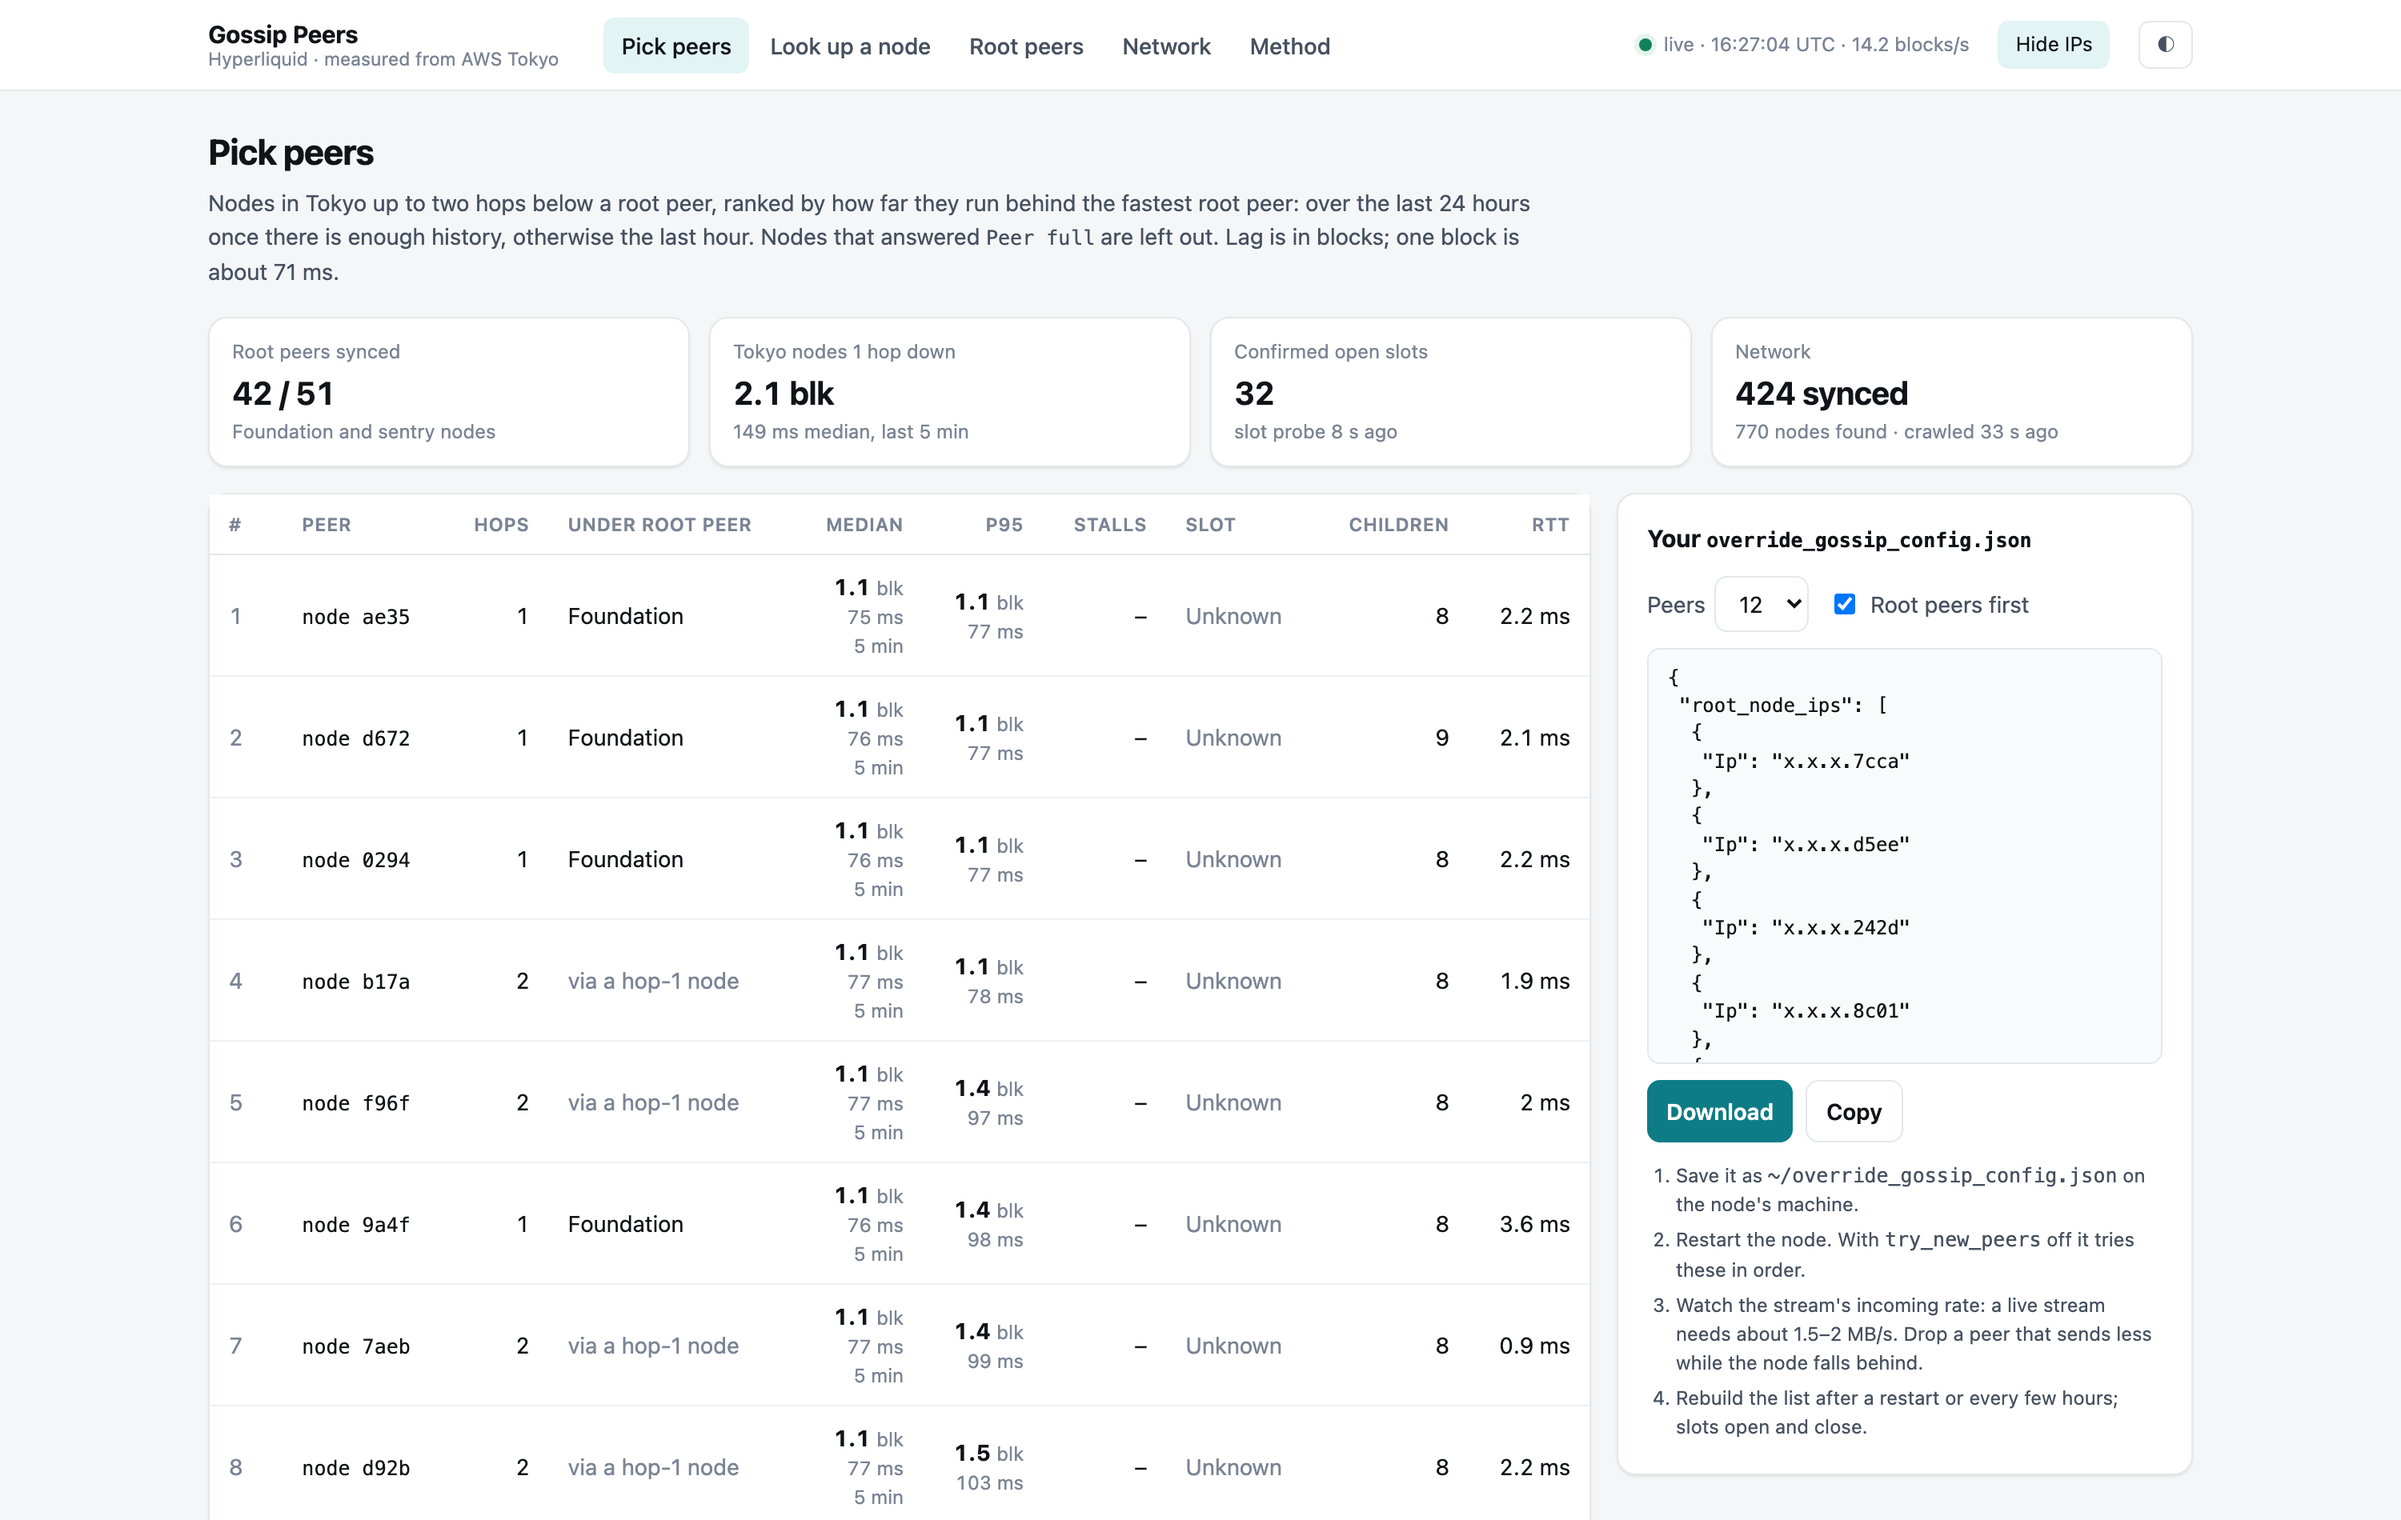
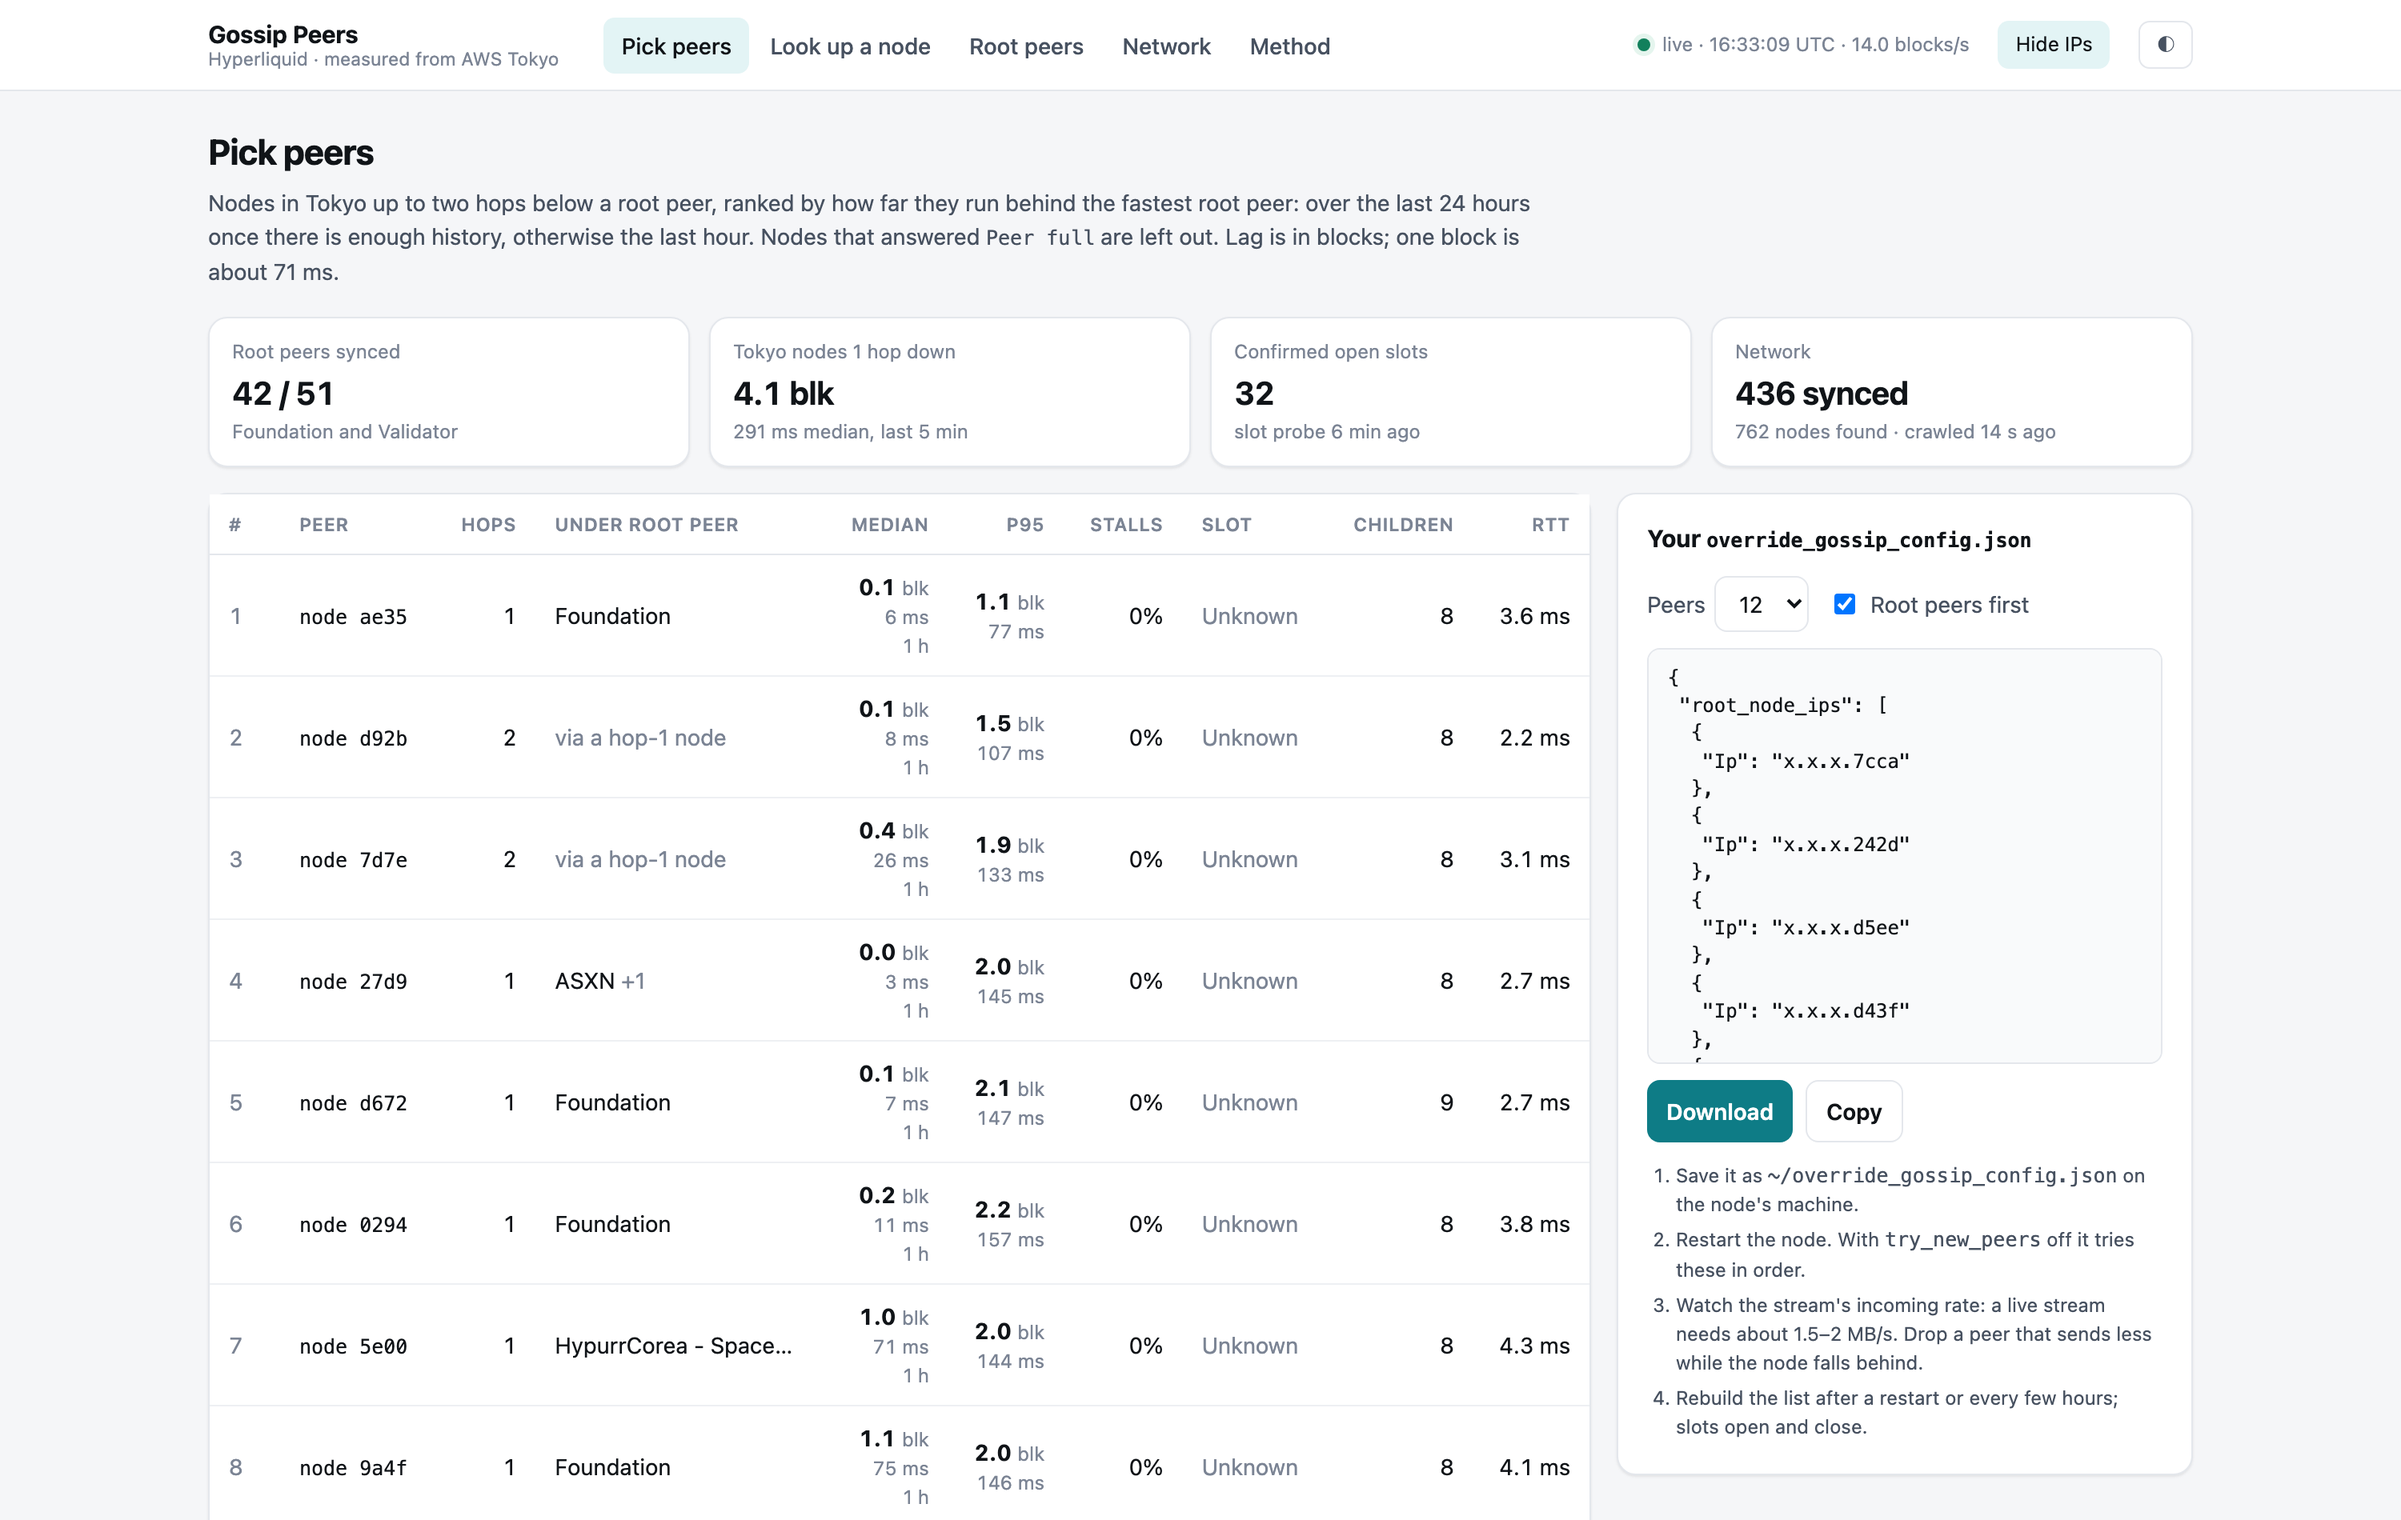
Label validator-run root peers as Validator, not sentry, in article 003
Which root IPs are a validator's sentry nodes is not public; we only know
the operator. Text, Figure 3 and Figure 9 now say Validator.

Claude-Session: https://claude.ai/code/session_01J1XFVkyFFdQmsV45gKMzGd

diff --git a/003-hyperliquid-peering/README.md b/003-hyperliquid-peering/README.md
@@ -11,16 +11,16 @@ This time we looked at the peering itself. We wrote a small crawler for the goss
 
 - **Default settings:** a node on the README's defaults needed 45 minutes just to get a peer, and it never caught up during the test.
 - **Hops:** in Tokyo, every hop away from a root peer added roughly 70 to 150 ms of lag at the median.
-- **Root peers:** the Foundation nodes ran a median 73 ms ahead of the validators' sentry nodes.
+- **Root peers:** the Foundation nodes ran a median 73 ms ahead of the root peers run by validators.
 - **Picked peers:** with peers chosen from our measurements, the node ran 69 ms behind the root peers at the median and beat the public feed on BTC trades at the 95th percentile, 334 ms against 525 ms. A node pinned to a random open peer ran about half a second behind.
 
 ## 1. How a node finds its peers
 
-Hyperliquid's network has validators, which run consensus, and non-validator nodes, which follow the chain. Each validator may connect directly to up to two non-validator nodes of its own, its sentry nodes. The Foundation also runs non-validator nodes, which the API returns for `gossipRootIps`. The Foundation nodes and the validators' sentry nodes are the root peers: every other non-validator node, like ours, gets its blocks through them.
+Hyperliquid's network has validators, which run consensus, and non-validator nodes, which follow the chain. Validators keep other nodes at a distance: each connects directly to at most two non-validator nodes of its own, its sentry nodes. Non-validators start from published root peers instead: Foundation nodes, which the API returns for `gossipRootIps`, and nodes run by validators, listed in the node README. Every other non-validator node, like ours, gets its blocks through them.
 
 A non-validator node starts from a list of seed peers, `root_node_ips` in `override_gossip_config.json`. It asks each one for its status on port 4002 and tries to open a block stream on port 4001. We call the peer a node streams blocks from its parent peer, and the nodes it streams to its child peers, as the node's own status files do. A peer only takes a limited number of child peers, and when it has no free slot it replies `Peer full`. If `try_new_peers` is on, the node then asks that peer for its child peers and tries those next. It keeps walking down the tree this way until a peer accepts it.
 
-Our crawler does the same walk, using two requests on port 4002 (described in the appendix). We started it from all 51 published root peers: the 26 Foundation nodes from the API and the 25 root peers in the community table of the node README, which pairs each IP with an operator. 21 of those 25 belong to operators that are current validators, so we count them as sentry nodes. The other 4 belong to two operators that are no longer validators. It found 775 nodes. Almost every root peer was already full. 44 of the 45 that answered had 7 or more child peers. Eight looks like the default limit: it was the most common number of child peers after zero, with 149 of the 650 nodes that answered, but 50 nodes had more, mostly 9 to 21 and two with 100, so the limit can be raised. Two thirds of the network, 516 nodes, sits two or more hops below a root peer, and three quarters of the nodes below the root peers have a single parent peer.
+Our crawler does the same walk, using two requests on port 4002 (described in the appendix). We started it from all 51 published root peers: the 26 Foundation nodes from the API and the 25 root peers in the community table of the node README, which pairs each IP with an operator. 21 of those 25 belong to operators that are current validators; we call them Validator root peers. The other 4 belong to two operators that are no longer validators. It found 775 nodes. Almost every root peer was already full. 44 of the 45 that answered had 7 or more child peers. Eight looks like the default limit: it was the most common number of child peers after zero, with 149 of the 650 nodes that answered, but 50 nodes had more, mostly 9 to 21 and two with 100, so the limit can be raised. Two thirds of the network, 516 nodes, sits two or more hops below a root peer, and three quarters of the nodes below the root peers have a single parent peer.
 
 Every block a node applies has been forwarded by each node above it, so the next question was how much each hop costs.
 
@@ -42,9 +42,9 @@ Deeper nodes did better when they had more than one parent peer, since a node ap
 
 ![Each root peer's lag behind the root-peer median, by kind of root peer](assets/fig3-root-peers.svg)
 
-*Figure 3. Median lag of each root peer behind the median root peer: Foundation nodes, validators' sentry nodes, and the listed nodes whose operator is no longer a validator. Hollow markers fell more than 0.5 s behind in at least 10% of samples. Source: height queries every ~3 seconds from three machines in Tokyo, 08:22 to 08:55 UTC on 2026-11-13, about 2,000 samples per root peer; 44 of the 51 root peers answered throughout.*
+*Figure 3. Median lag of each root peer behind the median root peer: Foundation nodes, Validator root peers, and the listed nodes whose operator is no longer a validator. Hollow markers fell more than 0.5 s behind in at least 10% of samples. Source: height queries every ~3 seconds from three machines in Tokyo, 08:22 to 08:55 UTC on 2026-11-13, about 2,000 samples per root peer; 44 of the 51 root peers answered throughout.*
 
-The root peers are not equally fast either. Over half an hour of sampling from three machines, the Foundation nodes ran a median 3 ms ahead of the median root peer, while the validators' sentry nodes ran 70 ms behind. Four root peers, one Foundation node and three sentry nodes, were more than half a second behind in 20 to 34% of samples. Any node below one of them inherits that delay.
+The root peers are not equally fast either. Over half an hour of sampling from three machines, the Foundation nodes ran a median 3 ms ahead of the median root peer, while the Validator root peers ran 70 ms behind. Four root peers, one Foundation node and three Validator root peers, were more than half a second behind in 20 to 34% of samples. Any node below one of them inherits that delay.
 
 ## 3. What went wrong when we tried it
 
@@ -58,7 +58,7 @@ We restarted without that peer. After 11 more attempts the node attached to anot
 
 *Figure 4. Our node's lag behind the root peers' block height, sampled about every 3 seconds: with the slow parent peer from 06:19 UTC and with its replacement from 06:34 UTC on 2026-11-13. Source: our height queries from the node's machine.*
 
-**The root peer above us.** With the second peer, our node ran 69 ms behind the root peers at the median. Its parent peer was 70 ms behind, and the root peer above that one, a B-Harvest sentry node, was about 60 ms behind the median root peer. Most of our lag came from the root peer at the top, not from the hops below it. That is why we rank candidates by their own measured lag rather than by hops.
+**The root peer above us.** With the second peer, our node ran 69 ms behind the root peers at the median. Its parent peer was 70 ms behind, and the root peer above that one, run by B-Harvest, was about 60 ms behind the median root peer. Most of our lag came from the root peer at the top, not from the hops below it. That is why we rank candidates by their own measured lag rather than by hops.
 
 ![Our node, the peers we selected and their root peers](assets/fig5-peer-map.svg)
 
@@ -100,7 +100,7 @@ Running the crawler by hand was fine for one article but not for day-to-day work
 
 ![The peer-picking page of our internal gossip dashboard](assets/fig9-dashboard.png)
 
-*Figure 9. The main page of our internal tool, with IP addresses hidden: Tokyo nodes up to two hops below a root peer, ranked by how far they run behind the fastest root peer, and the `override_gossip_config.json` it writes from them. Screenshot taken at 16:27 UTC on 2026-11-13.*
+*Figure 9. The main page of our internal tool, with IP addresses hidden: Tokyo nodes up to two hops below a root peer, ranked by how far they run behind the fastest root peer, and the `override_gossip_config.json` it writes from them. Screenshot taken at 16:33 UTC on 2026-11-13.*
 
 The main page ranks candidate peers and writes the config file. A second page looks up any node, ours included: where it sits, its path up to a root peer, its lag over the last 24 hours and how far it trails the best peer available. The other pages show each root peer's lag through the day and the network as a whole.
 
